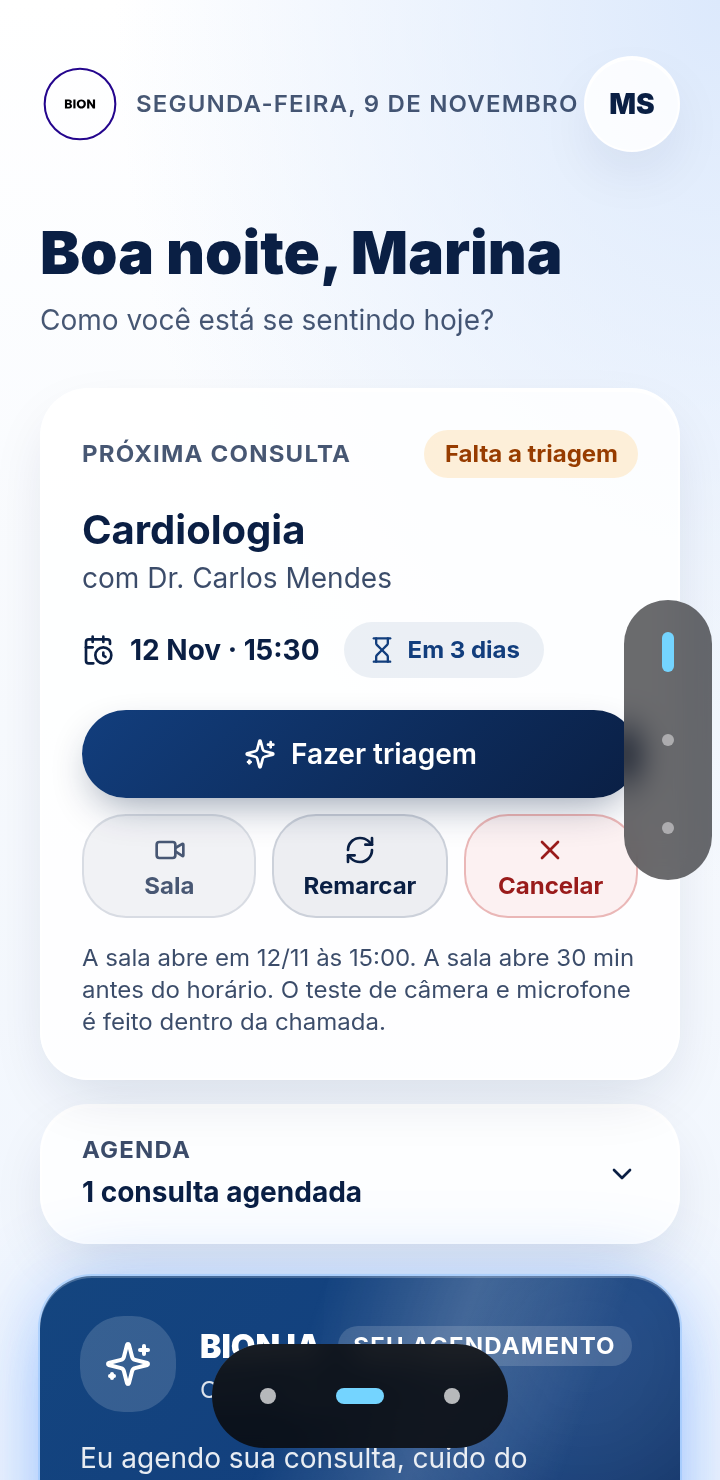
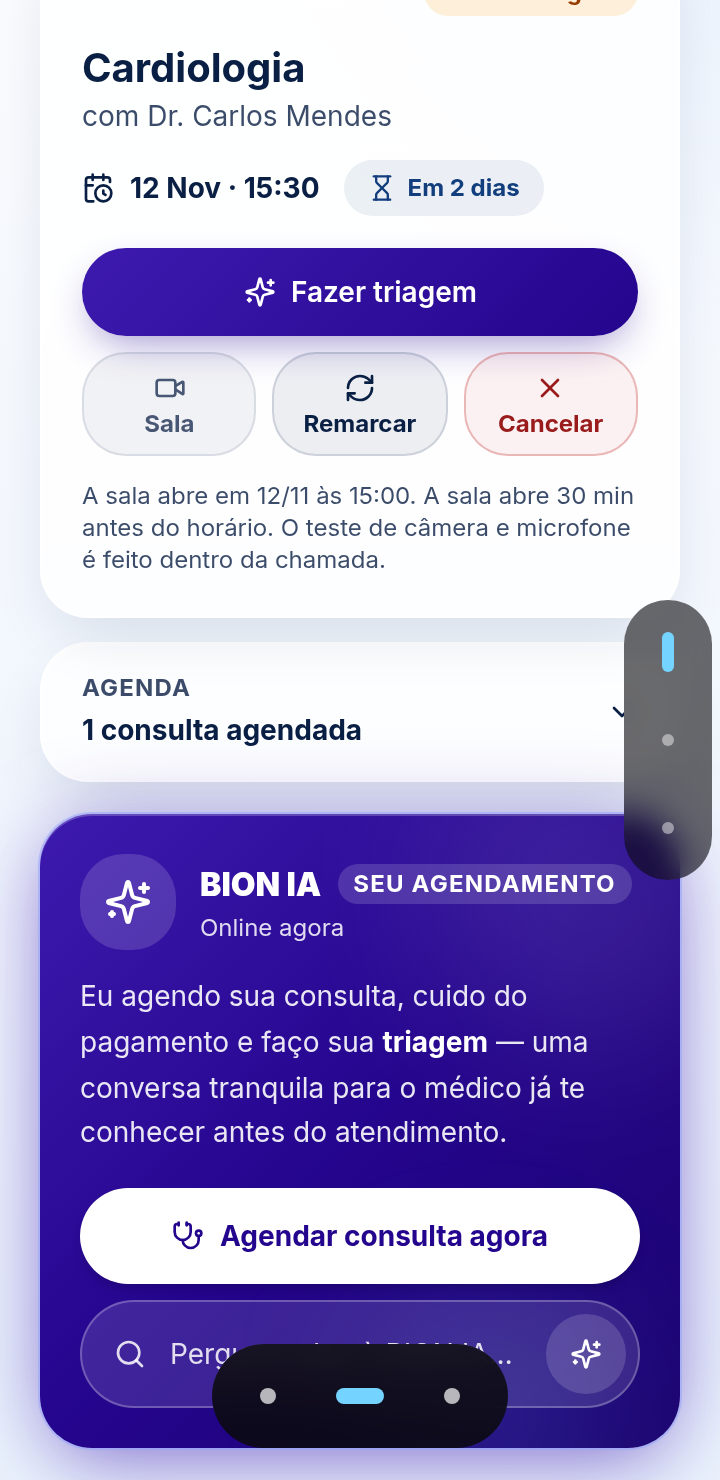
fix(marca): botão Fazer triagem e cartão da BION IA na cor oficial
No app do paciente, o .bp-acao e o cartão da BION IA deixam o
marinho compartilhado e passam a usar tokens da marca #24058D no
modo claro (e o mesmo roxo no escuro, com contraste AA). Médicos e
Admin não são alterados.

diff --git a/src/components/bion/paciente/paciente.css b/src/components/bion/paciente/paciente.css
@@ -44,9 +44,21 @@
   --bpp-grafico-eixo-marinho: rgba(255, 255, 255, 0.8);
   /* Placeholder de campos */
   --bpp-placeholder: rgba(10, 31, 68, 0.62);
-  /* Cartão da BION IA: brilho em volta (só decoração, sem texto) */
-  --bpp-ia-brilho: rgba(56, 132, 255, 0.42);
-  --bpp-ia-aro: rgba(147, 197, 253, 0.55);
+  /* Cartão da BION IA e botão primário (.bp-acao, só neste app):
+     marca oficial #24058D. Branco sobre #24058D: 14,18:1; sobre o
+     início do degradê #3D1AAE: 10,73:1. Texto white/85 no cartão:
+     10,34:1 (#24058D) e 8,09:1 (#3D1AAE). O .bp-acao do globals.css
+     (marinho) permanece para Médicos e Admin. */
+  --bpp-acao-inicio: #3D1AAE;
+  --bpp-acao-fim: #24058D;
+  --bpp-acao-texto: #ffffff;
+  --bpp-acao-sombra: rgba(36, 5, 141, 0.45);
+  --bpp-ia-fundo-inicio: #3D1AAE;
+  --bpp-ia-fundo-meio: #24058D;
+  --bpp-ia-fundo-fim: #1C0470;
+  --bpp-ia-cta-texto: #24058D;
+  --bpp-ia-brilho: rgba(61, 26, 174, 0.42);
+  --bpp-ia-aro: rgba(150, 165, 255, 0.55);
   /* Ações secundárias da próxima consulta */
   --bpp-sec-fundo: rgba(10, 31, 68, 0.07);
   --bpp-sec-borda: rgba(10, 31, 68, 0.14);
@@ -104,8 +116,11 @@
   --bpp-grafico-eixo-marinho: rgba(255, 255, 255, 0.8);
   --bpp-placeholder: rgba(242, 246, 252, 0.62);
   --bpp-s1-brilho: #03101f;
-  --bpp-ia-brilho: rgba(59, 130, 246, 0.34);
-  --bpp-ia-aro: rgba(147, 197, 253, 0.35);
+  /* Superfícies preenchidas herdam o roxo do Clean: branco sobre
+     #24058D continua 14,18:1 (AA). Não usamos #96A5FF como fundo —
+     branco sobre o tint falha (~2,30:1). Só o brilho acompanha o escuro. */
+  --bpp-ia-brilho: rgba(150, 165, 255, 0.34);
+  --bpp-ia-aro: rgba(150, 165, 255, 0.40);
   --bpp-sec-fundo: rgba(255, 255, 255, 0.08);
   --bpp-sec-borda: rgba(255, 255, 255, 0.16);
   --bpp-sec-texto: #f2f6fc;
@@ -166,11 +181,27 @@
 
 /* ---------------- cartão da BION IA: o destaque do Início ------------ */
 .bp-app-paciente .bpp-cartao-ia {
+  background: linear-gradient(
+    to bottom right,
+    var(--bpp-ia-fundo-inicio),
+    var(--bpp-ia-fundo-meio),
+    var(--bpp-ia-fundo-fim)
+  );
   box-shadow:
     0 0 0 1px var(--bpp-ia-aro),
     0 14px 36px -10px var(--bpp-ia-brilho),
     0 0 44px -6px var(--bpp-ia-brilho),
     inset 0 1px 0 rgba(255, 255, 255, 0.22);
+}
+.bp-app-paciente .bpp-cartao-ia .bpp-toque {
+  color: var(--bpp-ia-cta-texto);
+}
+
+/* Sobrescreve o .bp-acao marinho do globals.css só no app do paciente. */
+.bp-app-paciente .bp-acao {
+  background: linear-gradient(135deg, var(--bpp-acao-inicio) 0%, var(--bpp-acao-fim) 100%);
+  color: var(--bpp-acao-texto);
+  box-shadow: 0 8px 20px -6px var(--bpp-acao-sombra);
 }
 /* Reflexo que passa uma vez pelo cartão ao abrir o Início */
 .bp-app-paciente .bpp-cartao-ia::after {

diff --git a/scripts/teste_contraste_paciente.ts b/scripts/teste_contraste_paciente.ts
@@ -174,9 +174,12 @@ for (const modo of ["Clean", "Dark"] as const) {
     par(modo, `gráfico: eixo e rótulos (${onde})`, sobre(c("bpp-grafico-eixo"), g), g, TEXTO);
   }
 
-  // Botão principal e etiqueta "Sala aberta"
-  par(modo, "botão principal bp-acao (início do degradê)", BRANCO, SEA);
-  par(modo, "botão principal bp-acao (fim do degradê)", BRANCO, INK);
+  // Botão principal (.bp-acao no app do paciente): degradê da marca
+  const acaoIni = cheio("bpp-acao-inicio");
+  const acaoFim = cheio("bpp-acao-fim");
+  const acaoTexto = sobre(c("bpp-acao-texto"), acaoFim);
+  par(modo, "botão principal bp-acao (início do degradê)", sobre(c("bpp-acao-texto"), acaoIni), acaoIni);
+  par(modo, "botão principal bp-acao (fim do degradê)", acaoTexto, acaoFim);
   par(modo, '"Sala aberta" / "Entrar na sala" (emerald-700)', BRANCO, tw("emerald-700"));
   par(modo, "lembrete marcado (emerald-700)", BRANCO, tw("emerald-700"), GRAFICO);
 
@@ -207,14 +210,19 @@ for (const modo of ["Clean", "Dark"] as const) {
     par(modo, `seção 3 (${onde}) · gráfico eixo e rótulos`, sobre(c("bpp-grafico-eixo-marinho"), gm), gm, TEXTO);
   }
 
-  // Cartão da BION IA (degradê deep → sea → ink, texto branco)
-  for (const [onde, bg] of [["deep", DEEP], ["sea", SEA], ["ink", INK]] as [string, RGB][]) {
+  // Cartão da BION IA (degradê da marca, texto branco / CTA #24058D no branco)
+  const iaStops: [string, RGB][] = [
+    ["início", cheio("bpp-ia-fundo-inicio")],
+    ["meio", cheio("bpp-ia-fundo-meio")],
+    ["fim", cheio("bpp-ia-fundo-fim")],
+  ];
+  for (const [onde, bg] of iaStops) {
     par(modo, `cartão BION IA (${onde}) · texto white/85`, mix(BRANCO, 0.85, bg), bg);
     par(modo, `cartão BION IA (${onde}) · barra "Pergunte" white/85 sobre white/12`, mix(BRANCO, 0.85, mix(BRANCO, 0.12, bg)), mix(BRANCO, 0.12, bg));
   }
-  par(modo, 'cartão BION IA · botão "Agendar" (ink sobre branco)', INK, BRANCO);
+  par(modo, 'cartão BION IA · botão "Agendar" (marca sobre branco)', sobre(c("bpp-ia-cta-texto"), BRANCO), BRANCO);
   // Reflexo que passa uma vez (white/16) por cima do texto do cartão
-  for (const [onde, bg] of [["deep", DEEP], ["sea", SEA]] as [string, RGB][]) {
+  for (const [onde, bg] of iaStops.slice(0, 2)) {
     const reflexo = mix(BRANCO, 0.16, bg);
     par(modo, `cartão BION IA (${onde}) · texto white/85 sob o reflexo`, mix(BRANCO, 0.85, reflexo), reflexo);
   }

diff --git a/src/components/bion/paciente/PacienteApp.tsx b/src/components/bion/paciente/PacienteApp.tsx
@@ -747,7 +747,7 @@ export function PacienteApp() {
             ))}
 
             {/* Cartão único da BION IA: agendar (principal) + perguntar */}
-            <div className="bpp-cartao-ia mt-4 w-full rounded-3xl p-5 text-white relative overflow-hidden bg-gradient-to-br from-bion-deep via-bion-sea to-bion-ink">
+            <div className="bpp-cartao-ia mt-4 w-full rounded-3xl p-5 text-white relative overflow-hidden">
               <span aria-hidden className="absolute -right-8 -top-10 w-40 h-40 rounded-full bg-white/10 blur-2xl" />
               <span aria-hidden className="absolute right-10 -bottom-10 w-28 h-28 rounded-full bg-sky-300/15 blur-2xl" />
               <div className="relative flex items-center gap-3">
